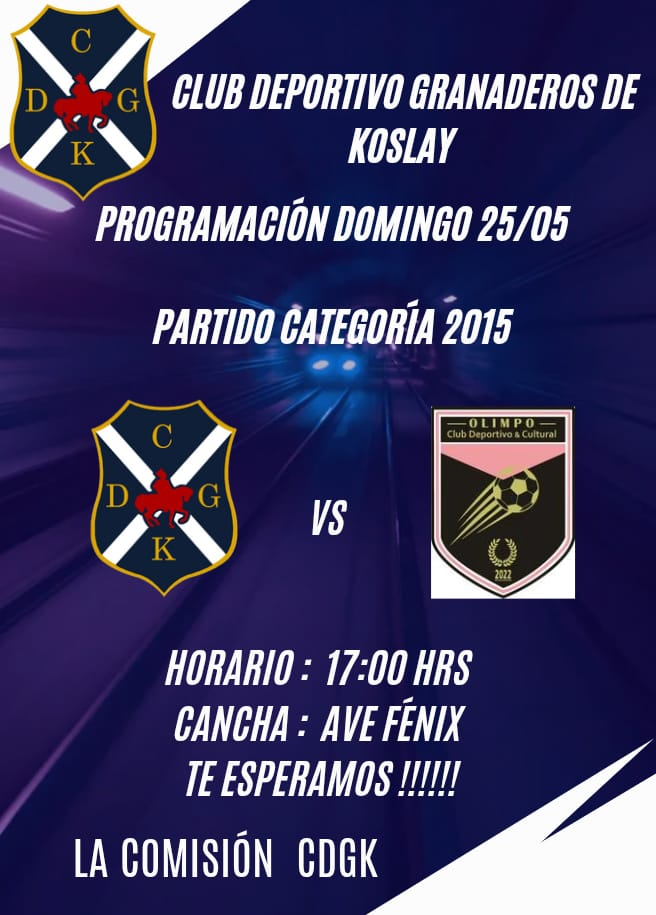
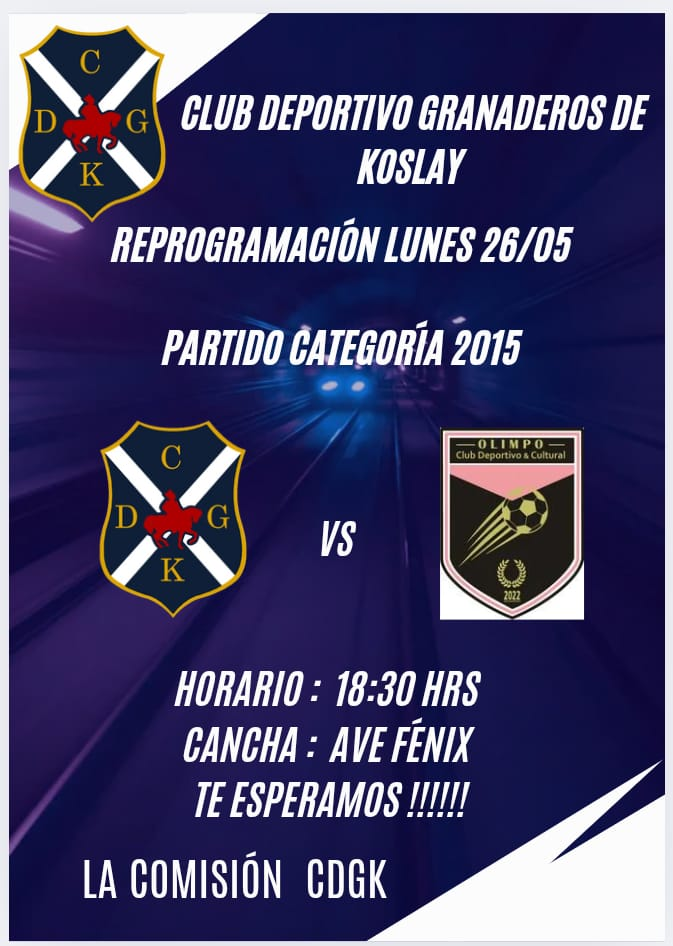
...

diff --git a/src/data/news.js b/src/data/news.js
@@ -173,7 +173,7 @@ export const news = [
         id: 22,
         title: "¡Duelo de Titanes en El Ave Fénix! ⚔ 2015 recibe a Olimpo",
         brief: "La categoría 2015 de Granaderos recibe a Olimpo en un partido que promete ser intenso y aguerrido.",
-        description: "Este domingo 25 de mayo, nuestras Granaderas se enfrentan al Club CAI en un partido que promete mucha garra y fútbol del bueno.\n\n📅 Domingo 25 de mayo\n🕚 17:00 hs\n📍 Cancha: El Ave Fénix\n\n¡Vení a alentarnos y viví el fútbol con pasión! 💙⚽",
+        description: "Este lunes 26 de mayo, nuestras Granaderas se enfrentan al Club CAI en un partido que promete mucha garra y fútbol del bueno.\n\n📅 Lunes 26 de mayo\n🕚 18:30 hs\n📍 Cancha: El Ave Fénix\n\n¡Vení a alentarnos y viví el fútbol con pasión! 💙⚽",
         img: ["/assets/images/noticias/2025-05-20-3.jpeg"],
         date: "20 de Mayo del 2025",
         priority: 2,
